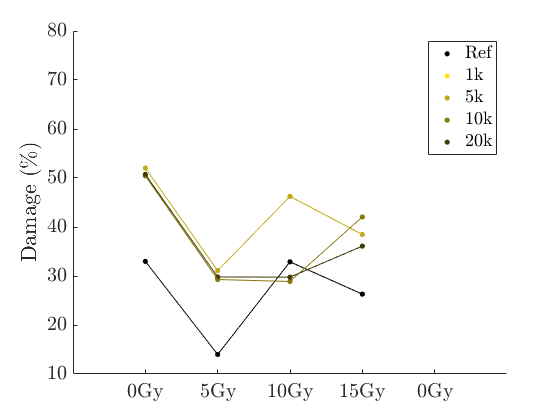
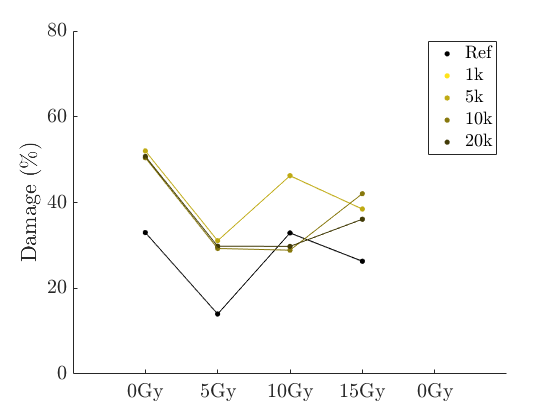
no message

diff --git a/Verslag/main.tex b/Verslag/main.tex
@@ -72,7 +72,8 @@ Professor: & Chris Van Haesendonck % Instructor/supervisor
 
  %If you wish to include an abstract, uncomment the lines below
 \begin{abstract}
-   abstract
+   Elk jaar sterven meer en meer mensen van kanker, een ziekte die ontstaat door schade aan het DNA van cellen in het lichaam. $50\%$ van de mensen die behandeld worden tegen kanker ondergaan radiatie therapie. De kwadaardige cellen, die meestal uitgegroeid zijn tot een tumor, worden met hoge energiestraling bestraald in de hoop celdood te induceren. Helaas wordt hierbij ook goedaardig biologisch materiaal vernietigd en de neveneffecten/gevolgen hievan kunnen groot zijn.
+   Een recente ontwikkeling om radiatie therapie zo effectief mogelijk te maken in de radiosensitizering van de kanker cellen. In dit project is nader gekeken naar de mogelijkheden om goud nanodeeltjes (GND) hiervoor te gebruiken. De GND zijn gesynthetiseerd volgens de methode van Turkevich en gekarakteriseerd met verschillende technieken; TEM, UV-VIs, DLS and $\zeta$-potential. Er zijn deeltjes van drie verschillende grootten gesynthetiseerd; $15$nm, $30$nm en $45$nm omdat dit een belangrijke parameter is voor de diffusie eigenschappan. 
 \end{abstract}
 
 %----------------------------------------------------------------------------------------

diff --git a/Measurement_Results/gel/Dataread.m b/Measurement_Results/gel/Dataread.m
@@ -19,7 +19,7 @@ plot(x,A(1:4,6),'Color',hex2rgb('#423B07'),'Markersize',15) %20k
 
 hold off
 set(gca, 'XTick',1:5, 'XTickLabel',{'$0$Gy' '$5$Gy' '$10$Gy' '$15$Gy'})
-axis([0 6 10 80])
+axis([0 6 0 80])
 ylabel('Damage ($\%$)')
 legend('Ref','1k','5k','10k','20k');
 
@@ -38,7 +38,7 @@ plot(x,A(7:10,6),'Color',hex2rgb('#4C002A'),'Markersize',15) %20k
 
 hold off
 set(gca, 'XTick',1:4, 'XTickLabel',{'$0$Gy' '$5$Gy' '$10$Gy' '$15$Gy'})
-axis([0 6 10 80])
+axis([0 6 0 80])
 ylabel('Damage ($\%$)')
 legend('Ref','1k','5k','10k','20k');
 
@@ -56,6 +56,6 @@ plot(x,A(13:16,5),'Color',hex2rgb('#0D747F'),'Markersize',15) %10k
 plot(x,A(13:16,6),'Color',hex2rgb('#084C4C'),'Markersize',15) %20k
 hold off
 set(gca, 'XTick',1:4, 'XTickLabel',{'$0$Gy' '$5$Gy' '$10$Gy' '$15$Gy'})
-axis([0 6 10 80])
+axis([0 6 0 80])
 ylabel('Damage ($\%$)')
 legend('Ref','1k','5k','10k','20k');
